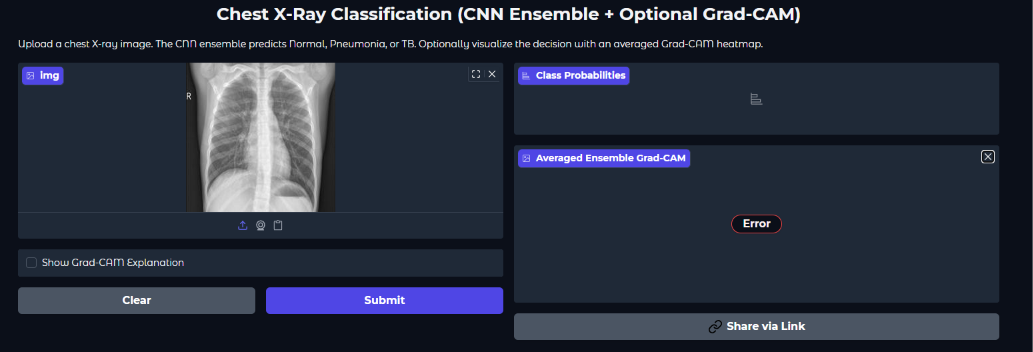
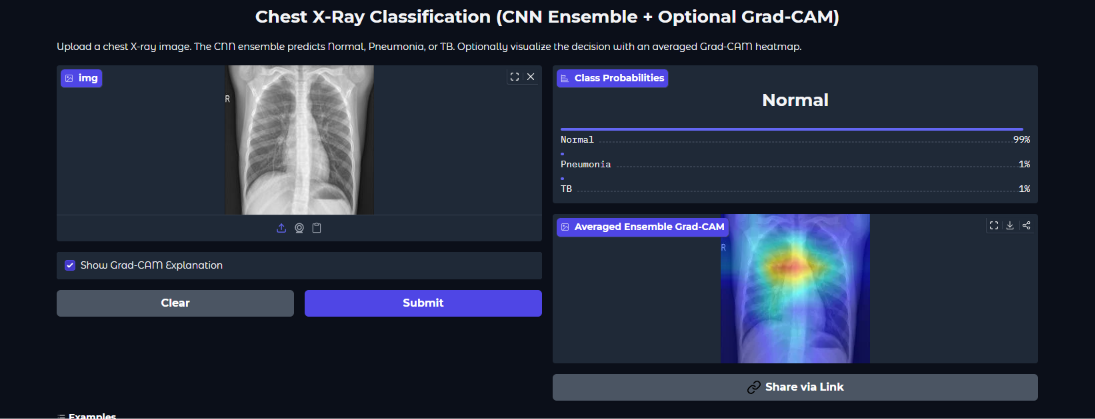
Improve project showcase visual polish
- Enlarge category tabs (bigger padding/type) and add a lift +
  glow hover animation
- Give the category description its own bordered/background
  panel instead of bare text blending into the page background
- Push secondary card links (e.g. Source Code) to the right edge
  of the link row, separating them from the primary CTA button
- Swap in the retaken chest X-ray screenshot showing a successful
  classification instead of the earlier error state

diff --git a/css/style.css b/css/style.css
@@ -341,33 +341,43 @@ section { padding: 64px 24px; }
 
 .tabs {
   display: flex;
-  gap: 8px;
+  gap: 12px;
   flex-wrap: wrap;
 }
 
 .tab {
   font-family: var(--font-mono);
-  font-size: 0.82rem;
-  padding: 9px 16px;
+  font-size: 0.9rem;
+  padding: 14px 26px;
   border-radius: 999px;
   border: 1px solid var(--border);
   background: var(--bg-elevated);
   color: var(--text-muted);
   cursor: pointer;
-  transition: all 0.15s ease;
+  transition: transform 0.15s ease, border-color 0.15s ease, color 0.15s ease, box-shadow 0.15s ease, background-color 0.15s ease;
 }
-.tab:hover { border-color: var(--accent); color: var(--text); }
+.tab:hover {
+  border-color: var(--accent);
+  color: var(--text);
+  transform: translateY(-2px);
+  box-shadow: 0 6px 16px color-mix(in srgb, var(--accent) 25%, transparent);
+}
 .tab.active {
   background: var(--accent);
   border-color: var(--accent);
   color: var(--accent-contrast);
 }
+.tab.active:hover { box-shadow: 0 6px 16px color-mix(in srgb, var(--accent) 40%, transparent); }
 
 .category-description {
   color: var(--text-muted);
   font-size: 0.95rem;
   max-width: 68ch;
   margin: 0;
+  background: var(--bg-elevated);
+  border: 1px solid var(--border);
+  border-radius: var(--radius-md);
+  padding: 16px 20px;
 }
 
 .tag-filter-bar {
@@ -506,6 +516,7 @@ section { padding: 64px 24px; }
 .project-card-links {
   display: flex;
   align-items: center;
+  justify-content: space-between;
   gap: 14px;
   flex-wrap: wrap;
   margin-top: auto;

diff --git a/js/projects.js b/js/projects.js
@@ -134,12 +134,11 @@
       title: "Chest X-Ray Ensemble CNN Classification",
       category: "dl",
       description: "Ensemble convolutional neural network for classifying chest X-ray images, trained on GPU. Co-authored into a peer-reviewed publication in Medical Research Archives.",
-      tags: ["PyTorch", "CV", "Ensemble", "Published Research"],
+      tags: ["PyTorch", "CV","Grad-CAM"],
       image: "images/chest-xray-ensemble-cnn.png",
       links: [
         { label: "View Project", url: "https://huggingface.co/spaces/SHAH-MEER/CXR-Ensemble", primary: true },
-        { label: "Read Publication", url: "https://esmed.org/MRA/mra/article/view/7065" },
-        { label: "DOI", url: "https://doi.org/10.18103/mra.v13i11.7065" }
+        { label: "Read Publication", url: "https://esmed.org/MRA/mra/article/view/7065" }
       ]
     },
     {
